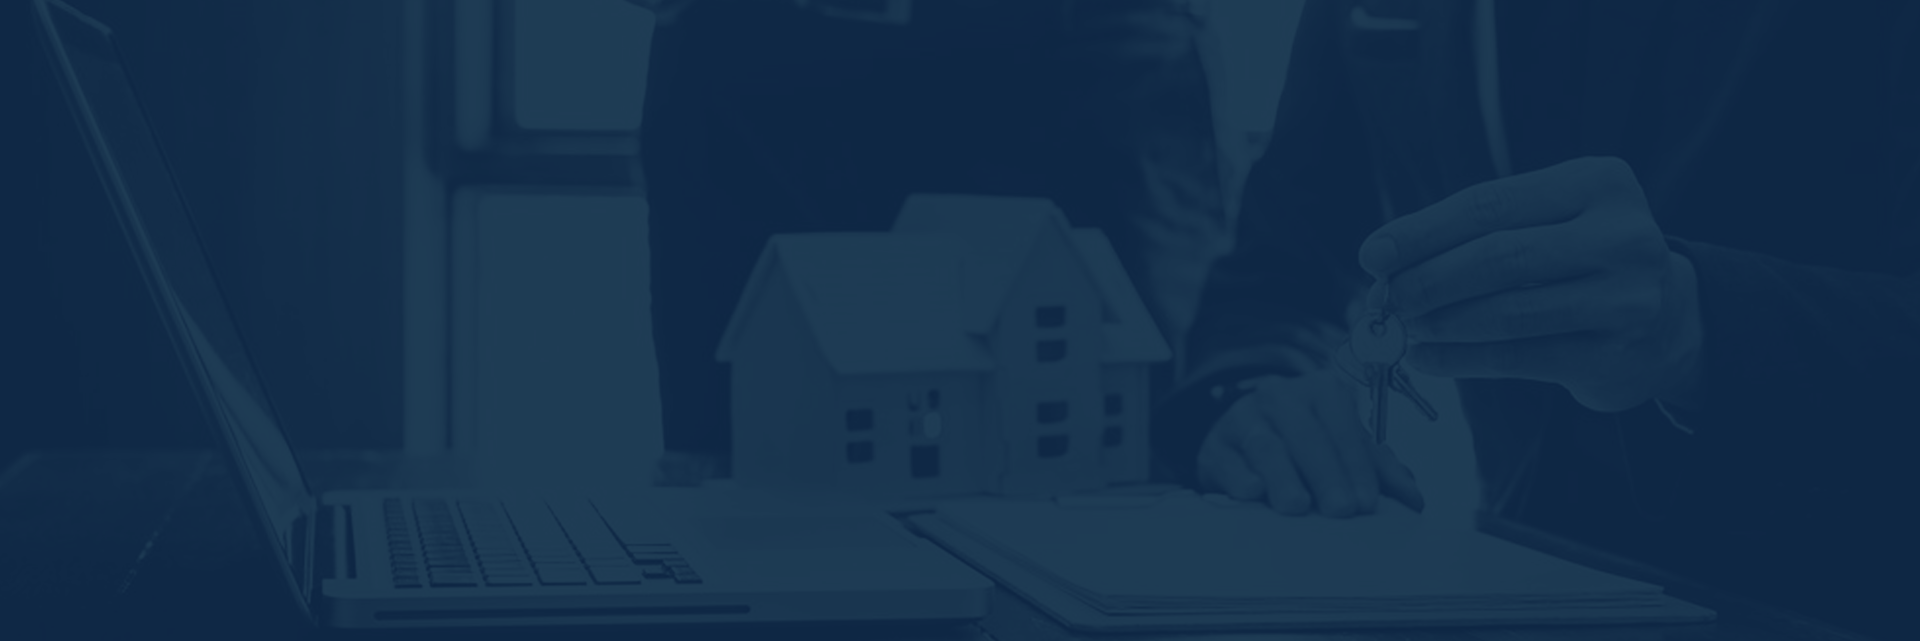
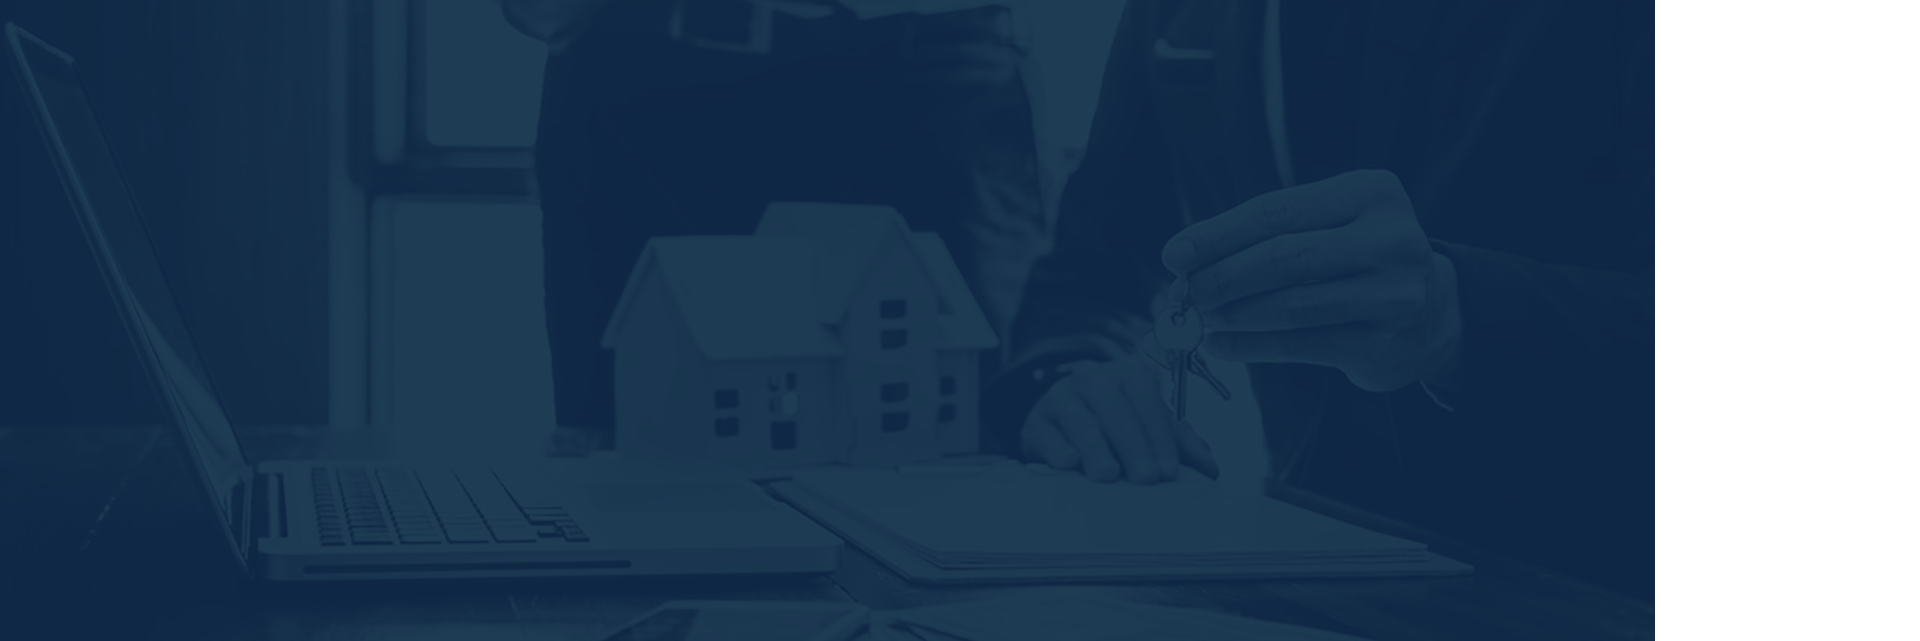
changes

Changed region(s): [[0.8438, 0.0, 1.0, 1.0]]

diff --git a/index.html b/index.html
@@ -19,7 +19,7 @@
 
 <body>
     <!-- banner -->
-    <div class="jumbotron jumbotron-fluid" id="banner" style="background-image: url(img/banner-bk.jpg);">
+    <div class="jumbotron jumbotron-fluid" id="banner" style="background-image: url(img/banner-bk.png);">
         <div class="container text-center text-md-left">
             <header>
                 <div class="row justify-content-between">
@@ -36,8 +36,8 @@
             	Tenant Experience
             </h1>
             <p data-aos="fade" data-aos-easing="linear" data-aos-duration="1000" data-aos-once="true" class="lead text-white my-4">
-                Lorem ipsum dolor sit amet, id nec enim autem oblique, ei dico mentitum duo.
-                <br> Illum iusto laoreet his te. Lorem partiendo mel ex. Ad vitae admodum voluptatum per.
+                We believe in making living better and providing the best experience for your tenants.
+                <br>Joy gives you the data and insight you need to make informed decisions that increase the value of your property to boost rental returns.
             </p>
             <a href="#" data-aos="fade" data-aos-easing="linear" data-aos-duration="1000" data-aos-once="true" class="btn my-4 font-weight-bold atlas-cta cta-green">Get Started</a>
         </div>
